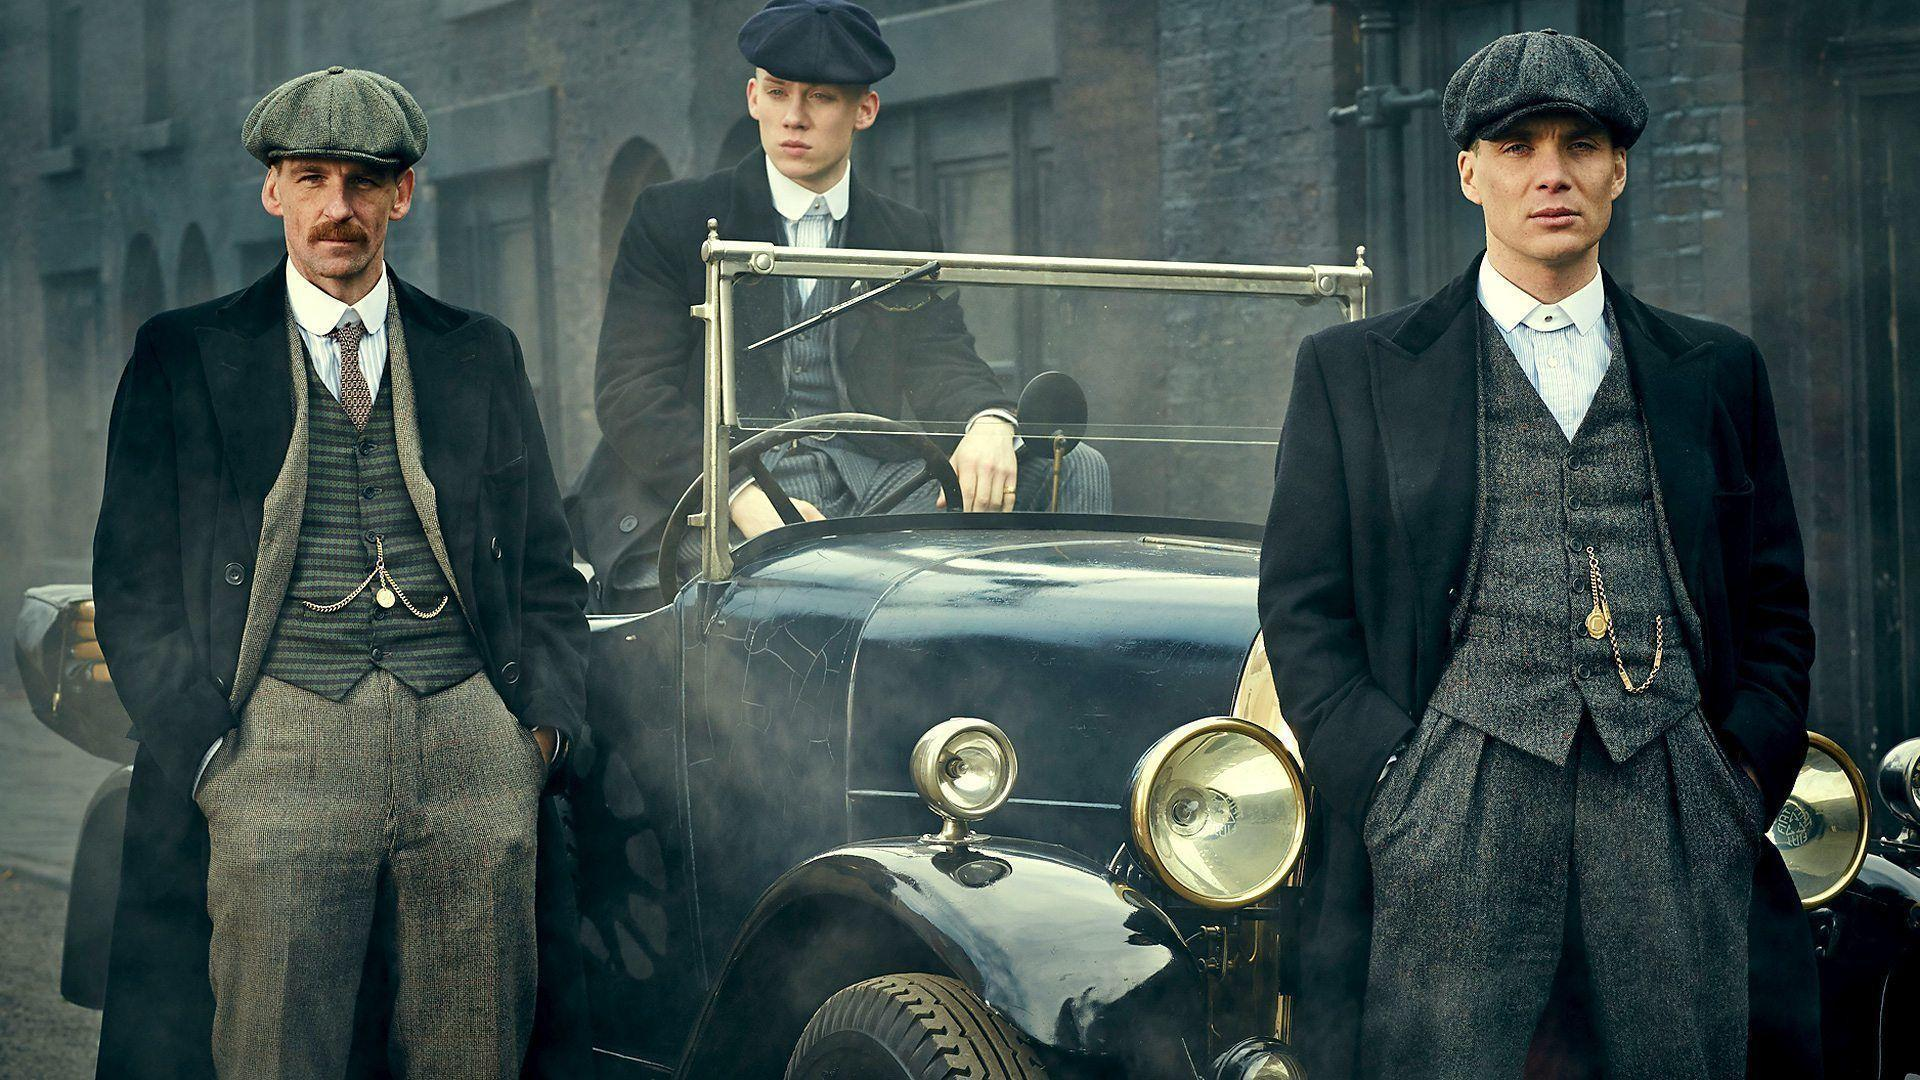
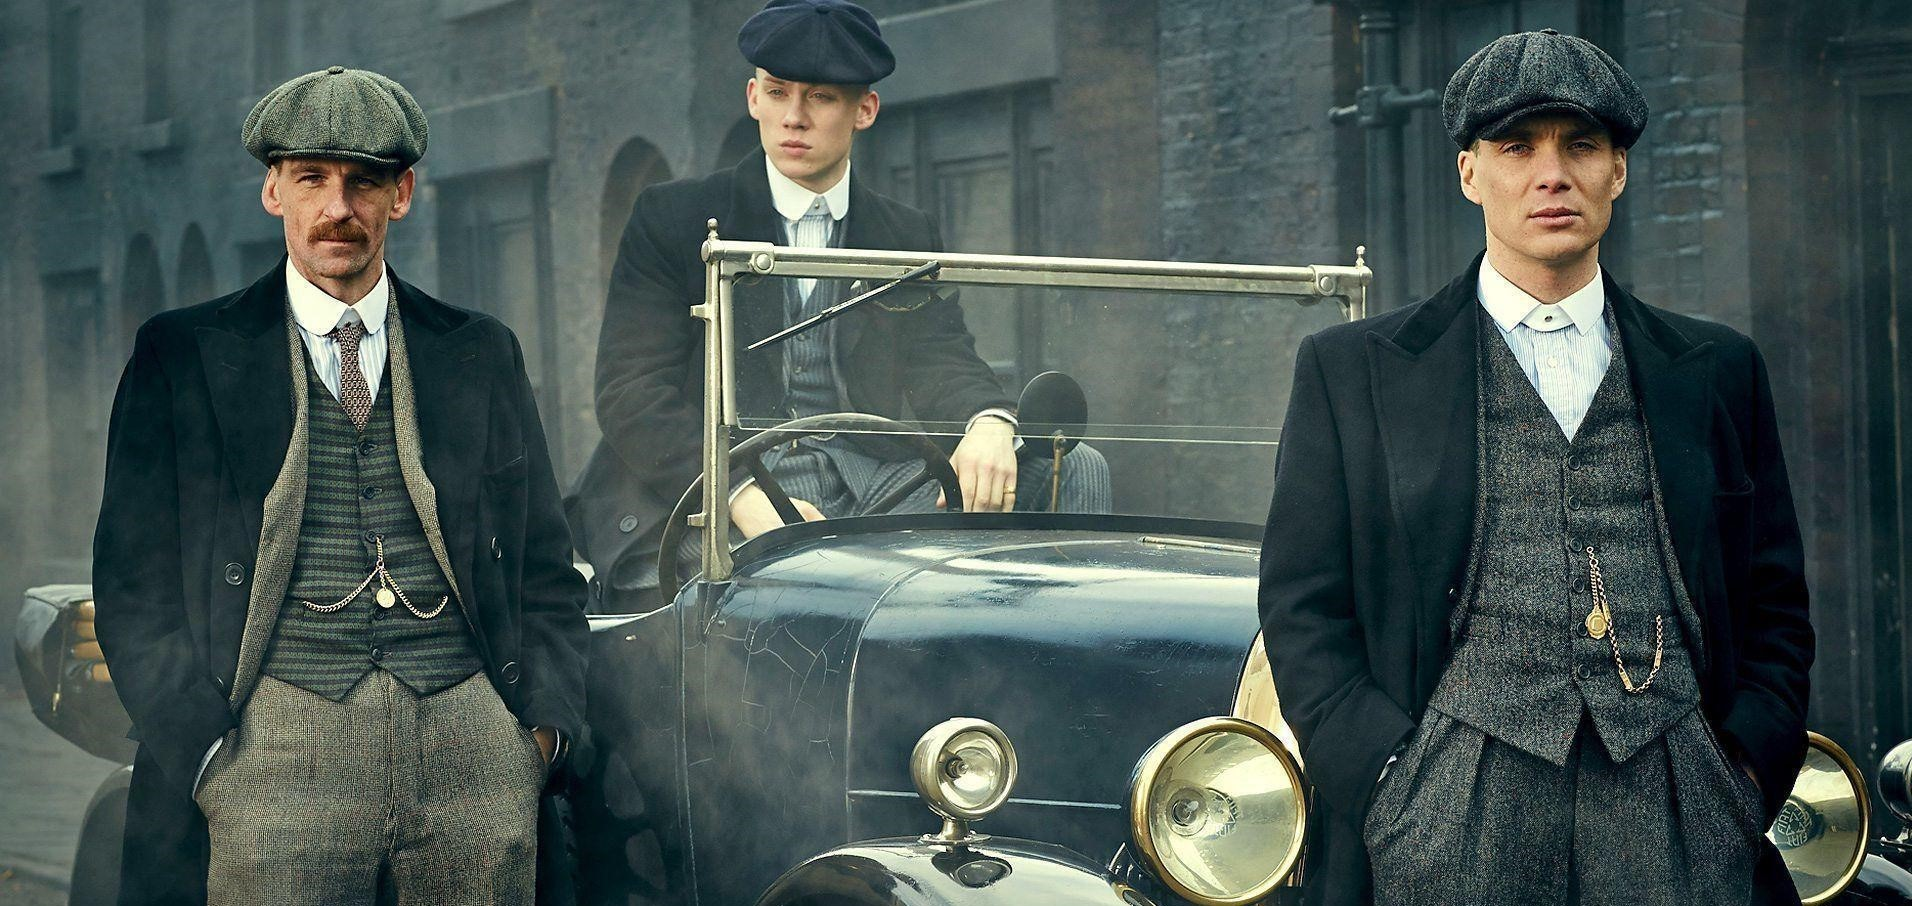
'BodyContent'

diff --git a/css/style.css b/css/style.css
@@ -17,9 +17,12 @@ font-family: 'Crimson Text', serif; */
     margin: 0;
     padding: 0;
     text-decoration: none;
-    font-family: 'Crimson Text', serif;
-    background-color: var(--main-color);
+    /* font-family: 'Crimson Text', serif; */
+    font-family: 'Cinzel', serif;
     color: var(--default-color);
+}
+body{
+    background-color: var(--main-color);
 }
 .container{
     max-width: 85%;
@@ -32,17 +35,18 @@ font-family: 'Crimson Text', serif; */
     text-transform: capitalize;
     font-weight: 700;
     font-size: 15px;
-    width: 70px;
-    height: 35px;
+    padding: 0.7rem 1.4rem;
     border-radius: 5px;
     border: 2px solid var(--default-color);
     background-color: var(--card-color);
+    color: var(--main-color);
     cursor: pointer;
     transition: .3s;
 }
 
 .btn:hover{
     border: 2px solid var(--logo-color);
+    color: var(--text-color);
 }
 
 /* btn end  */
@@ -51,7 +55,8 @@ font-family: 'Crimson Text', serif; */
 .header{
     position: sticky;
     top: 0;
-    width: 100%;
+    width: 90%;
+    /* margin: auto; */
     z-index: 100;
     /* border-radius: 5px; */
 }
@@ -59,7 +64,7 @@ font-family: 'Crimson Text', serif; */
     display: flex;
     justify-content: space-around;
     align-items: center;
-    padding: 2rem;
+    padding: 1.2rem;
     border-radius: 0.5rem;
     background-color: var(--nav-color);
 
@@ -109,17 +114,40 @@ li a:hover::after{
 }   
 
 /* header end  */
-/* 
+
 .body{
-    position: relative;
     width: 100%;
-    min-height: 50vh;
+    min-height: 530px;
+    position: relative;
     display: flex;
     align-items: center;
 }
 .body img{
     position: absolute;
+    width: 100%;
+    height: 100%;
     object-fit: cover;
-    z-index: -1;
-} */
-
+    object-position: center;
+    opacity: 0.7;
+    z-index: -1;    
+}
+.body .body-text{
+    margin-left: 70px;
+}
+.body-text span{
+    font-size: 35px;
+    font-weight: 300;
+}
+.body-text .add{
+    display: flex;
+    align-items: center;
+}
+.body-text button{
+    margin-right: 4px;
+    border: 2px solid var(--text-color);
+    /* color: var(--main-color); */
+}
+.body-text .bx{
+    /* margin-top: 4px; */
+    font-size: 20px;
+}

diff --git a/index.html b/index.html
@@ -36,11 +36,19 @@
         </div>
     </header>
     <!-- nav bar end -->
-    <!-- <section class="home">
+    <section class="home content-font">
         <div class="body">
-            <img src="./img/top-10/01.jpg" alt="">
+            <img src="./img/top-10/06.jpg" alt="">
+        
+            <div class="body-text">
+                <span>peaky blinders</span>
+                <h1>Season 1</h1>
+                <div class="add">
+                    <button type="button" class="btn">watch now</button> <i class='bx bx-plus-circle'></i>
+                </div>
+            </div>
         </div>
-    </section> -->
+    </section>
     <!--slider start   -->
 </body>
 </html>
